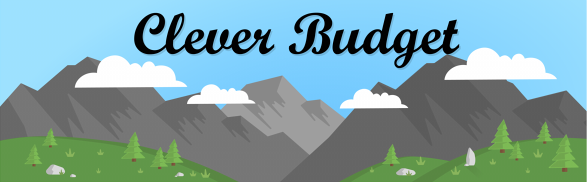
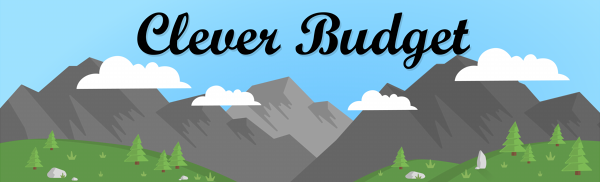
design work

diff --git a/src/Login_System.java b/src/Login_System.java
@@ -55,6 +55,7 @@ public class Login_System {
 		frmLogIn.setTitle("CleverBudget - Log In");
 		frmLogIn.setIconImage(Toolkit.getDefaultToolkit().getImage("./AppIcon.png"));
 		frmLogIn.getContentPane().setFont(new Font("Times New Roman", Font.PLAIN, 13));
+		frmLogIn.setResizable(false);
 		frmLogIn.setBounds(100, 100, 600, 400);
 		frmLogIn.setDefaultCloseOperation(JFrame.EXIT_ON_CLOSE);
 		frmLogIn.getContentPane().setLayout(null);
@@ -198,7 +199,7 @@ public class Login_System {
 		lblDevelopedByClever.setForeground(Color.BLACK);
 		lblDevelopedByClever.setHorizontalAlignment(SwingConstants.TRAILING);
 		lblDevelopedByClever.setFont(new Font("Verdana", Font.BOLD | Font.ITALIC, 12));
-		lblDevelopedByClever.setBounds(302, 339, 272, 16);
+		lblDevelopedByClever.setBounds(312, 349, 272, 16);
 		frmLogIn.getContentPane().add(lblDevelopedByClever);
 		
 		JButton btnUserManual = new JButton("User Manual");
@@ -218,22 +219,22 @@ public class Login_System {
 		
 		JLabel banner_image = new JLabel();
 		banner_image.setIcon(new ImageIcon("./login_bg.png"));
-		banner_image.setBounds(0, 0, 584, 218);
+		banner_image.setBounds(0, 0, 594, 218);
 		frmLogIn.getContentPane().add(banner_image);
 		
 		JLabel middle_blue = new JLabel();
 		middle_blue.setIcon(new ImageIcon("./blue_border.png"));
-		middle_blue.setBounds(0, 196, 584, 22);
+		middle_blue.setBounds(0, 196, 594, 22);
 		frmLogIn.getContentPane().add(middle_blue);
 		
 		JLabel bottom_blue = new JLabel();
 		bottom_blue.setIcon(new ImageIcon("./blue_border.png"));
-		bottom_blue.setBounds(0, 339, 601, 22);
+		bottom_blue.setBounds(0, 349, 594, 22);
 		frmLogIn.getContentPane().add(bottom_blue);
 		
 		JLabel top_blue = new JLabel("");
 		top_blue.setIcon(new ImageIcon("./blue_border.png"));
-		top_blue.setBounds(0, 0, 601, 22);
+		top_blue.setBounds(0, 0, 594, 22);
 		frmLogIn.getContentPane().add(top_blue);
 	}
 }
